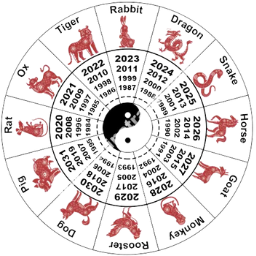
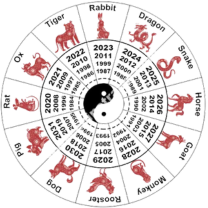
2025-06-05

diff --git a/src/game/Results.java b/src/game/Results.java
@@ -145,7 +145,7 @@ public class Results extends javax.swing.JFrame {
             }
         });
 
-        jLabel18.setIcon(new javax.swing.ImageIcon(getClass().getResource("/game/the gang (1).png"))); // NOI18N
+        jLabel18.setIcon(new javax.swing.ImageIcon(getClass().getResource("/game/ZodiacImage.png"))); // NOI18N
 
         javax.swing.GroupLayout layout = new javax.swing.GroupLayout(getContentPane());
         getContentPane().setLayout(layout);
@@ -181,10 +181,14 @@ public class Results extends javax.swing.JFrame {
                                 .addPreferredGap(javax.swing.LayoutStyle.ComponentPlacement.RELATED)
                                 .addComponent(jTextField2, javax.swing.GroupLayout.PREFERRED_SIZE, 186, javax.swing.GroupLayout.PREFERRED_SIZE))
                             .addComponent(jLabel12))
-                        .addPreferredGap(javax.swing.LayoutStyle.ComponentPlacement.RELATED, javax.swing.GroupLayout.DEFAULT_SIZE, Short.MAX_VALUE)
-                        .addComponent(jLabel18)
-                        .addGap(123, 123, 123)
-                        .addComponent(jButton4))
+                        .addGroup(layout.createParallelGroup(javax.swing.GroupLayout.Alignment.LEADING)
+                            .addGroup(layout.createSequentialGroup()
+                                .addPreferredGap(javax.swing.LayoutStyle.ComponentPlacement.RELATED, javax.swing.GroupLayout.DEFAULT_SIZE, Short.MAX_VALUE)
+                                .addComponent(jButton4))
+                            .addGroup(layout.createSequentialGroup()
+                                .addGap(51, 51, 51)
+                                .addComponent(jLabel18)
+                                .addGap(0, 0, Short.MAX_VALUE))))
                     .addGroup(layout.createSequentialGroup()
                         .addGroup(layout.createParallelGroup(javax.swing.GroupLayout.Alignment.LEADING)
                             .addGroup(layout.createSequentialGroup()
@@ -272,7 +276,8 @@ public class Results extends javax.swing.JFrame {
                                 .addGroup(layout.createParallelGroup(javax.swing.GroupLayout.Alignment.BASELINE)
                                     .addComponent(jButton2)
                                     .addComponent(jButton3)))
-                            .addComponent(jLabel18))))
+                            .addComponent(jLabel18))
+                        .addGap(51, 51, 51)))
                 .addContainerGap(javax.swing.GroupLayout.DEFAULT_SIZE, Short.MAX_VALUE))
         );
 

diff --git a/src/game/GameSet.java b/src/game/GameSet.java
@@ -57,9 +57,6 @@ public class GameSet extends PApplet {
             pig.draw();
             rat.draw();
             sheep.draw();
-//            text("E.g. Sheep,Mary,Cook,01,02,2005", 20, 80);
-//            text(userInput, 20,110);
-// ask for user info at end
             
         } else if (stage == 1) {
             if (!ratInitialized) {
